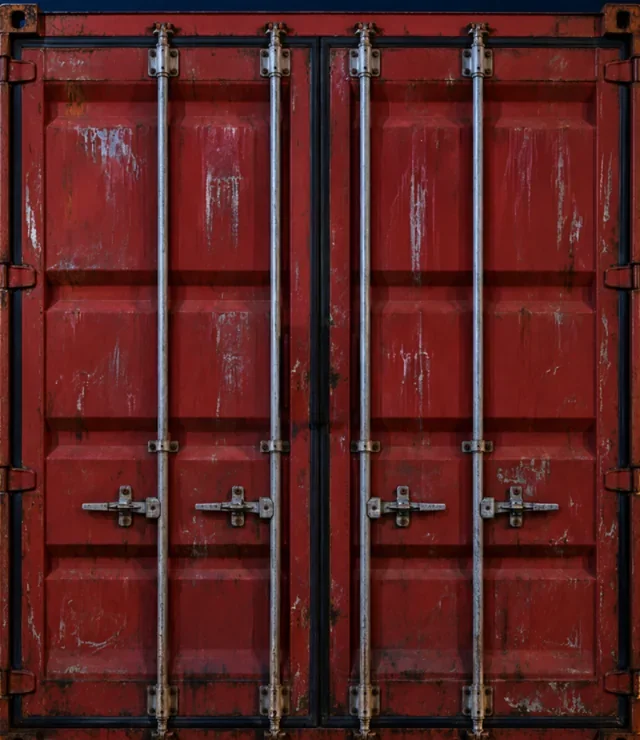
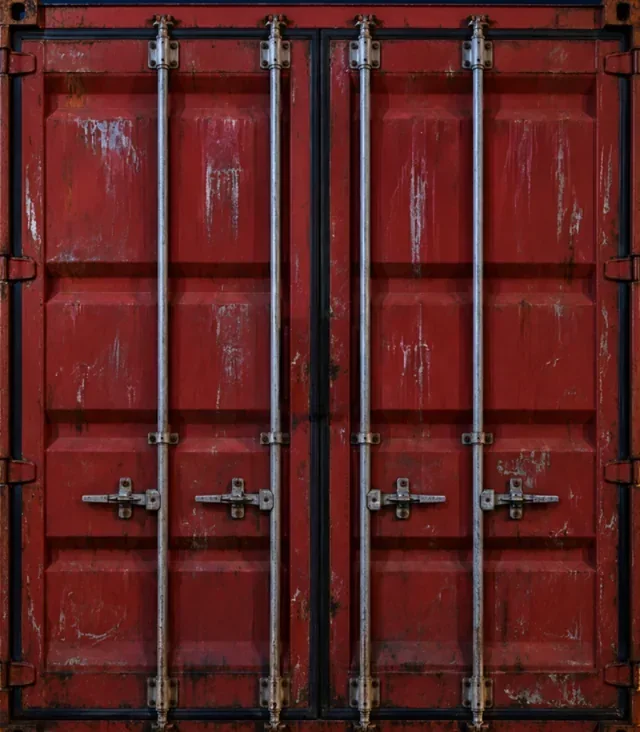
crime: revisão da v71 (laboratório a 320, caixas assentes, encomendas à medida da mochila, móveis numa fila, jante e farol a sair do carro, alvos de toque nas slots)

diff --git a/sites/crime/css/app.css b/sites/crime/css/app.css
@@ -2657,18 +2657,18 @@ img { -webkit-user-drag: none; }
 .tk-part.got img.pp { opacity: .35; }
 @media (prefers-reduced-motion: reduce) { .tk-grinder.shake, .tk-bag.shut, .tk-bag.shut .in, .tk-car .spot.work { animation: none; } .tk-grinder .powder { transition: none; } }
 /* contentor do porto: fotografia, com o tom da transportadora; as portas são as duas metades da mesma fotografia */
-.ct { aspect-ratio: 640 / 740; background: none; box-shadow: 0 20px 30px -14px #000d; overflow: visible; }
+.ct { aspect-ratio: 640 / 732; background: none; box-shadow: 0 20px 30px -14px #000d; overflow: visible; }
 .ct-frame { position: absolute; inset: 0; width: 100%; height: 100%; border-radius: 4px; filter: var(--ctf); }
-.ct-in { position: absolute; left: 3.1%; right: 3.1%; top: 2.7%; bottom: 1.6%; overflow: hidden; isolation: isolate; background: #0b0c10; }
+.ct-in { position: absolute; left: 3.1%; right: 3.1%; top: 1.64%; bottom: 1.64%; overflow: hidden; isolation: isolate; background: #0b0c10; }
 .ct-in .ct-room { position: absolute; inset: 0; width: 100%; height: 100%; object-fit: cover; filter: brightness(.55) saturate(.8); }
 .ct-in::after { content: ''; position: absolute; left: 12%; right: 12%; bottom: 3%; height: 13%; border-radius: 50%; background: radial-gradient(closest-side, #000c, #0000); opacity: 0; transition: opacity .3s; z-index: 1; }
 .ct-fill { z-index: 2; }
 .ct-fill .bd { position: absolute; width: 18%; height: auto; filter: drop-shadow(0 2px 3px #000a); }
 .ct-fill .cx { position: absolute; width: 24%; height: auto; filter: drop-shadow(0 3px 5px #000a); }
-.ct-door { position: absolute; z-index: 3; top: 2.7%; bottom: 1.6%; width: 46.6%; overflow: hidden; will-change: transform; box-shadow: inset 0 0 0 1px #0006; }
+.ct-door { position: absolute; z-index: 3; top: 1.64%; bottom: 1.64%; width: 46.6%; overflow: hidden; will-change: transform; box-shadow: inset 0 0 0 1px #0006; }
 .ct-door.l { left: 3.1%; transform-origin: 0 50%; }
 .ct-door.r { right: 3.1%; transform-origin: 100% 50%; }
-.ct-door .ph { position: absolute; top: -2.82%; width: 214.6%; height: auto; max-width: none; filter: var(--ctf); }
+.ct-door .ph { position: absolute; top: -1.7%; width: 214.6%; height: auto; max-width: none; filter: var(--ctf); }
 .ct-door.l .ph { left: -6.65%; } .ct-door.r .ph { left: -107.94%; }
 .ct-nm { top: 7%; left: 22%; right: 12%; } .ct-code { top: 7%; left: 12%; right: 22%; }
 .ct-lock { position: absolute; z-index: 4; left: 50%; top: 52%; width: 10%; transform: translate(-50%, -50%); filter: drop-shadow(0 3px 4px #000c); }
@@ -2679,3 +2679,48 @@ img { -webkit-user-drag: none; }
 .tk-piece.a1 b { display: none; }
 .tk-piece.a1 img.ph { inset: 6% 6% 20%; height: 74%; }
 .tk-piece.a1:not(.heavy):not(.fragile) img.ph { inset: 8%; height: 84%; }
+/* revisão v71 */
+@media (max-width: 360px) { .tk-labrow { grid-template-columns: 1fr; } .tk-labrow .tk-grinder { order: -1; width: 44%; margin: 0 auto 10px; } }
+.tk-stage { overflow-x: clip; }
+.tk-tray { grid-template-columns: repeat(3, minmax(0, 1fr)); }
+.tk-tray .cell { min-width: 0; }
+/* camião: a fila de trás fica mais funda (mais pequena e mais acima, atrás da da frente) e tudo assenta no chão */
+.tk-truck .hold { row-gap: 0; }
+.tk-truck .hold .cell { position: relative; z-index: 1; }
+.tk-truck .hold .cell:nth-child(-n+3) { z-index: 0; top: 22%; --d: .84; }
+.tk-box { width: calc(var(--s, 1) * var(--d, 1) * 100%); }
+.tk-truck .cell, .tk-slot { aspect-ratio: 1.27; }
+.tk-pallet .row { gap: 6px; } .tk-pallet .rows { gap: 0; }
+.tk-box .kg { top: 60%; font-size: 13px; padding: 3px 5px; }
+/* entregas: encomendas mais pequenas do que a abertura da mochila, cada uma do seu tamanho */
+.tk-counter .cell { align-items: flex-end; }
+.tk-parcel { width: 74%; } .tk-parcel.z1 { width: 62%; } .tk-parcel.z2 { width: 86%; }
+.tk-parcel.z1 img.ph { filter: brightness(1.06) saturate(.85); } .tk-parcel.z2 img.ph { filter: brightness(.94) hue-rotate(-5deg); }
+.tk-parcel .lbl { left: 14%; right: 30%; top: 44%; font-size: 10px; padding: 2px 4px; }
+.tk-parcel .lbl b { overflow: hidden; display: -webkit-box; -webkit-line-clamp: 2; -webkit-box-orient: vertical; }
+/* laboratório: o saco mais pequeno (1 g não enche meio saco) e os comprimidos no fundo do copo, junto às lâminas */
+.tk-zip { left: 20%; width: 22%; top: -14%; }
+.tk-zip .fill { height: calc(min(var(--f, 0), 1.5) * 34%); }
+.tk-zip .mark { bottom: calc(4% + 34%); }
+.tk-grinder .jar .in { inset: 12% 8% 12%; }
+/* oficina: a porca do tamanho do furo e no tom da jante */
+.tk-nut img.hex { width: 50%; }
+.tk-wheelwrap:has(.tk-wheel.l1) .tk-nut img.hex { filter: brightness(.6) contrast(1.15) drop-shadow(0 2px 2px #000a); }
+.tk-wheelwrap:has(.tk-wheel.l2) .tk-nut img.hex { filter: sepia(.45) saturate(1.3) brightness(.92) drop-shadow(0 2px 2px #000a); }
+.tk-oficina .tk-head > span { min-height: 3.9em; }
+/* mudanças: os móveis numa fila que corre para o lado, para a carrinha caber no ecrã; o nome numa etiqueta escura por baixo da fotografia */
+.tk-trayv { flex-wrap: nowrap; overflow-x: auto; scroll-snap-type: x proximity; padding-bottom: 4px; margin: 0 -14px; padding-inline: 14px; scrollbar-width: none; }
+.tk-trayv::-webkit-scrollbar { display: none; }
+.tk-tile { flex: none; scroll-snap-align: start; }
+.tk-piece b, .tk-piece small { background: #000a; padding: 1px 4px; border-radius: 3px; text-shadow: none; }
+.tk-piece img.ph { inset: 5% 5% 30%; height: 65%; }
+/* desmanche: sai a jante, fica o cubo; sai o farol, fica o buraco */
+.tk-car .hole { position: absolute; opacity: 0; transition: opacity .3s; pointer-events: none; }
+.tk-car .hole.h2 { left: 78.9%; top: 76.9%; width: 11.6%; aspect-ratio: 1; transform: translate(-50%, -50%); border-radius: 50%; background: radial-gradient(circle, #8d9296 0 12%, #2a2b2d 14% 40%, #121314 42% 100%); }
+.tk-car .hole.h5 { left: 93.3%; top: 52.5%; width: 9%; height: 11%; transform: translate(-50%, -50%) rotate(8deg); border-radius: 40% 50% 50% 40%; background: radial-gradient(#050505, #1a1a1a 70%, #0000); }
+.tk-car.no2 .hole.h2, .tk-car.no5 .hole.h5 { opacity: 1; }
+/* slots: alvos de toque de 44 px mesmo quando o botão se desenha mais pequeno; a aposta não muda de largura */
+.sbb::after { inset: -5px; }
+.sib { position: relative; } .sib::after { content: ''; position: absolute; inset: -5px; }
+.sbet b { font-variant-numeric: tabular-nums; }
+@media (max-width: 360px) { .sbet > div { min-width: 52px; } }

diff --git a/sites/crime/js/i18n.js b/sites/crime/js/i18n.js
@@ -198,7 +198,7 @@ const D = {
     tkHalf: 'You left “{x}” halfway through.', tkResume: 'Carry on',
     tkCamiaoH: 'Onto the pallet', tkCamiaoRule: 'The three heaviest go at the bottom.', tkTapHint: 'Drag a box, or tap it and then tap a spot.', tkDrop: 'Dropped it! It goes back on the truck.', tkDropWhy: 'Dropped it: put it on a free spot (the top row needs a box underneath).', tkBase: 'bottom · heavy',
     tkBagH: 'Into the bag', tkBagSub: 'Drag the parcels, or tap one and then the bag.', tkMapH: 'The route', tkMapSub: 'Tap the doors in the order you’ll deliver. Shorter pays more.', tkBlocks: '{n} blocks', tkRedo: 'Start over',
-    tkPill: 'Pill', tkPillsH: 'Into the grinder', tkPillsSub: 'Drag the pills, or tap one and then the grinder.', tkIllegal: 'Illegal · {p} raid risk', tkCrushT: 'Crush', tkCrushH: 'Tap when the needle is in the green.', tkCrush: 'Crush', tkBagsT: 'Bag it', tkBagsH: 'Hold to pour, let go at {g}.', tkHold: 'Press and hold to pour', tkFill: 'Hold to fill', tkTarget: 'target {g}', tkSafe: 'Nobody noticed a thing.',
+    tkPill: 'Pill', tkPillsH: 'Into the grinder', tkPillsSub: 'Drag the pills, or tap one and then the grinder.', tkIllegal: 'Illegal · {p} raid risk', tkCrushT: 'Crush', tkCrushH: 'Tap when the needle is in the green.', tkCrush: 'Crush', tkBagsT: 'Bag it', tkBagsH: 'Hold to pour, let go at {g}.', tkHold: 'Press and hold to pour', tkFill: 'Hold to fill', tkTarget: 'target: {g}', tkSafe: 'Nobody noticed a thing.',
     tkClosing: 'Wrapping up…', tkPaid: 'You got', tkQual: 'Quality {p}', tkAgain: 'Again', tkOther: 'Another job', tkNext: 'Next one: {d}% (tiredness).',
     tkBust: 'The lab got raided', tkBustSub: 'The police caught you inside. No pay this time.',
     tkQ_camiao: '{n} of 6 boxes in the right place',
@@ -651,7 +651,7 @@ const D = {
     tkHalf: 'Deixaste «{x}» a meio.', tkResume: 'Continuar',
     tkCamiaoH: 'Para a palete', tkCamiaoRule: 'As três mais pesadas vão em baixo.', tkTapHint: 'Arrasta uma caixa, ou toca nela e depois no lugar.', tkDrop: 'Caiu! Volta para o camião.', tkDropWhy: 'Caiu: larga-a num lugar livre (em cima só com uma caixa por baixo).', tkBase: 'base · pesadas',
     tkBagH: 'Para a mochila', tkBagSub: 'Arrasta as encomendas, ou toca numa e depois na mochila.', tkMapH: 'A rota', tkMapSub: 'Toca nas portas pela ordem das entregas. Mais curta paga mais.', tkBlocks: '{n} quarteirões', tkRedo: 'Recomeçar',
-    tkPill: 'Comprimido', tkPillsH: 'Para a trituradora', tkPillsSub: 'Arrasta os comprimidos, ou toca num e depois na trituradora.', tkIllegal: 'Ilegal · {p} de rusga', tkCrushT: 'Triturar', tkCrushH: 'Toca quando o ponteiro estiver no verde.', tkCrush: 'Triturar', tkBagsT: 'Ensacar', tkBagsH: 'Segura para deitar e larga nos {g}.', tkHold: 'Carrega e segura para deitar', tkFill: 'Segura para encher', tkTarget: 'alvo {g}', tkSafe: 'Ninguém deu por nada.',
+    tkPill: 'Comprimido', tkPillsH: 'Para a trituradora', tkPillsSub: 'Arrasta os comprimidos, ou toca num e depois na trituradora.', tkIllegal: 'Ilegal · {p} de rusga', tkCrushT: 'Triturar', tkCrushH: 'Toca quando o ponteiro estiver no verde.', tkCrush: 'Triturar', tkBagsT: 'Ensacar', tkBagsH: 'Segura para deitar e larga nos {g}.', tkHold: 'Carrega e segura para deitar', tkFill: 'Segura para encher', tkTarget: 'alvo: {g}', tkSafe: 'Ninguém deu por nada.',
     tkClosing: 'A acabar…', tkPaid: 'Recebeste', tkQual: 'Qualidade {p}', tkAgain: 'Outra vez', tkOther: 'Outro biscate', tkNext: 'O próximo: {d}% (cansaço).',
     tkBust: 'Rusga ao laboratório', tkBustSub: 'A polícia apanhou-te lá dentro. Desta vez não recebes nada.',
     tkQ_camiao: '{n} de 6 caixas no sítio certo',

diff --git a/sites/crime/js/tarefas.js b/sites/crime/js/tarefas.js
@@ -69,7 +69,7 @@ function camiao(task, ctx) {
   const { t, sfx, vibrate } = ctx, L = task.layout, slots = new Array(6).fill(-1);
   let drops = 0, placed = 0, done;
   const finished = new Promise((r) => { done = r; });
-  const boxes = L.boxes.map((b, i) => h('div', { class: 'tk-box l' + b.look, dataset: { i }, role: 'button', 'aria-label': `${b.kg} kg`, style: `--s:${(0.78 + (0.22 * (b.kg - 4)) / 36).toFixed(3)}` },
+  const boxes = L.boxes.map((b, i) => h('div', { class: 'tk-box l' + b.look, dataset: { i }, role: 'button', 'aria-label': `${b.kg} kg`, style: `--s:${(0.8 + (0.2 * (b.kg - 4)) / 36).toFixed(3)}` },
     pic('caixa'), h('span', { class: 'kg num' }, b.kg + ' kg')));
   // a traseira do camião aberta (fotografia); as caixas ficam no chão da caixa de carga
   const truck = h('div', { class: 'tk-truck' }, pic('camiao-fundo', 'bg'), h('div', { class: 'hold' }, ...boxes.map((b) => h('div', { class: 'cell' }, b))));
@@ -472,6 +472,7 @@ function mudancas(task, ctx) {
       const q = L.pcs[drag.i];
       drag.ghost = h('div', { class: 'tk-piece ghost ' + look(q), style: `width:${drag.w}px;height:${drag.h}px` }, pic('m-' + q.kind), h('b', null, t('mv_' + q.kind)));
       document.body.appendChild(drag.ghost);
+      const vr = van.getBoundingClientRect(); if (vr.bottom > innerHeight - 90 || vr.top < 0) van.scrollIntoView({ block: 'center', behavior: reduced() ? 'auto' : 'smooth' });   // a carrinha inteira à vista enquanto se arrasta
       if (place[drag.i][0] >= 0) { drag.was = place[drag.i].slice(); place[drag.i] = [-1, -1, place[drag.i][2]]; }
       draw();
     }
@@ -526,7 +527,7 @@ function desmanche(task, ctx) {
   const vmax = Math.max(...L.parts.map((x) => x.v));
   const spots = L.parts.map((x) => h('i', { class: 'spot s' + x.k }));
   // o carro (fotografia): acende-se o sítio da peça que se está a tirar; cada linha tem a fotografia da peça
-  const car = h('div', { class: 'tk-car' }, pic('carro'), ...spots);
+  const car = h('div', { class: 'tk-car' }, pic('carro'), h('i', { class: 'hole h2' }), h('i', { class: 'hole h5' }), ...spots);
   const PARTS = ['radio', 'gps', 'roda', 'catalisador', 'bateria', 'farol', 'airbag', 'banco'];
   const rows = L.parts.map((x, i) => h('button', { class: 'tk-part', type: 'button', dataset: { i } },
     h('i', { class: 'prog' }), pic(PARTS[x.k], 'pp'), h('b', null, t('dp_' + x.k)),
@@ -558,7 +559,7 @@ function desmanche(task, ctx) {
       const x = L.parts[cur], spent = holds[cur] + (performance.now() - h0);
       rows[cur].style.setProperty('--p', Math.min(1, spent / x.need));
       if (spent >= x.need && !got[cur]) {   // a peça saiu
-        got[cur] = true; rows[cur].classList.add('got'); spots[cur].classList.add('gone'); sfx('clank'); vibrate(16);
+        got[cur] = true; rows[cur].classList.add('got'); spots[cur].classList.add('gone'); car.classList.add('no' + L.parts[cur].k);   // a jante e o farol deixam o buraco à vista sfx('clank'); vibrate(16);
         holds[cur] += Math.round(performance.now() - h0); h0 = performance.now(); rows[cur].classList.remove('on'); cur = -1;
       }
     }

diff --git a/sites/crime/js/app.js b/sites/crime/js/app.js
@@ -3540,6 +3540,7 @@ async function slotAnim(r) {
   const g = r.game, G = slotCfg(g);
   S.slotSkip = false; S.slotBaseC = r.baseC ?? r.base * 100; S.slotGame = g;   // as slots contam ao cêntimo
   const sl = document.querySelector('.slot'); if (sl && !slotFit(true)) await tableFocus(sl);
+  document.querySelectorAll('.slot .splq, .slot .sbb').forEach((b) => { b.disabled = true; });   // a meio de uma jogada (e do bónus) não se compra nem se muda a aposta
   const sk = document.querySelector('.csbar .btn.buy');
   if (sk) { sk.disabled = false; sk.replaceChildren(h('i', { class: 'stopi' })); sk.setAttribute('aria-label', t('slSkip')); sk.classList.replace('buy', 'skip'); const ml = document.querySelector('.smsgl'); if (ml) ml.textContent = t('slWinL'); sk.addEventListener('click', () => { S.slotSkip = true; }); }
   const grid = document.querySelector('.sgrid'), meter = document.querySelector('.swinm'), freeL = document.querySelector('.sfree');
